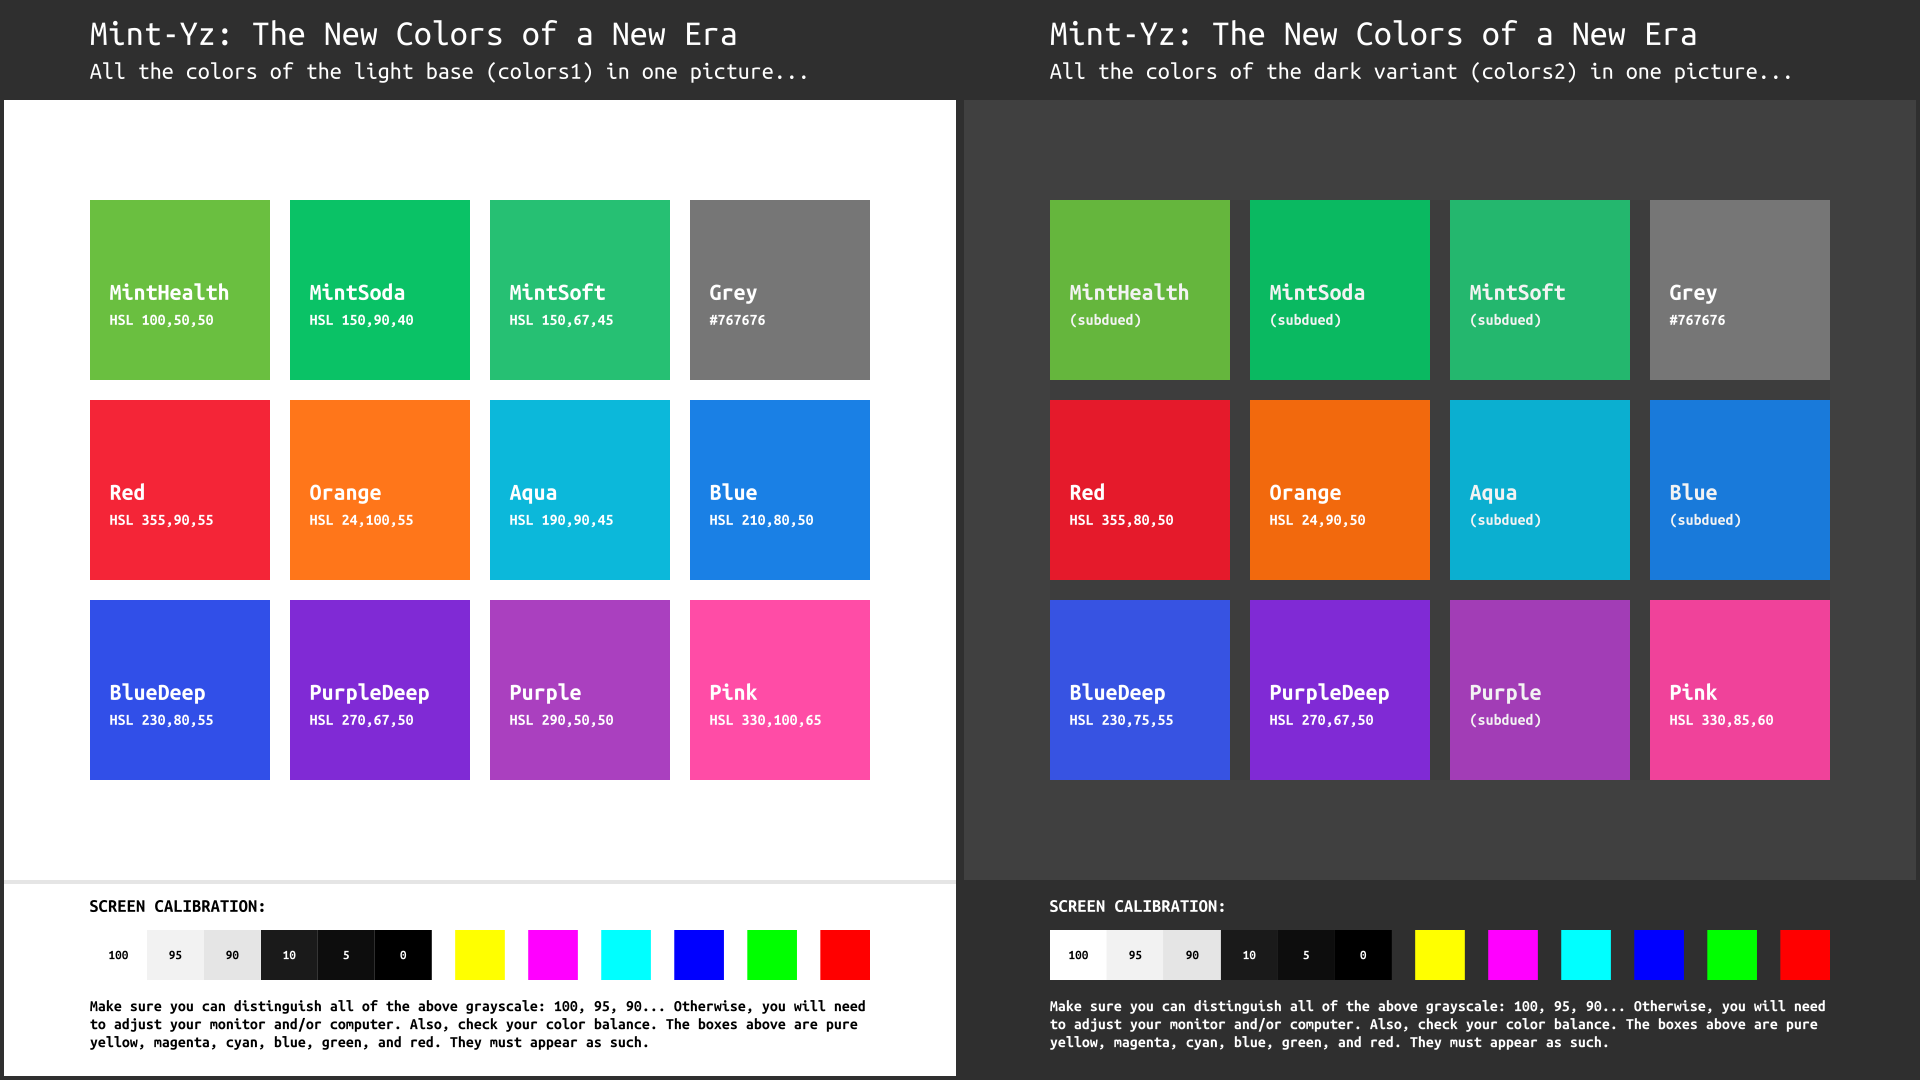
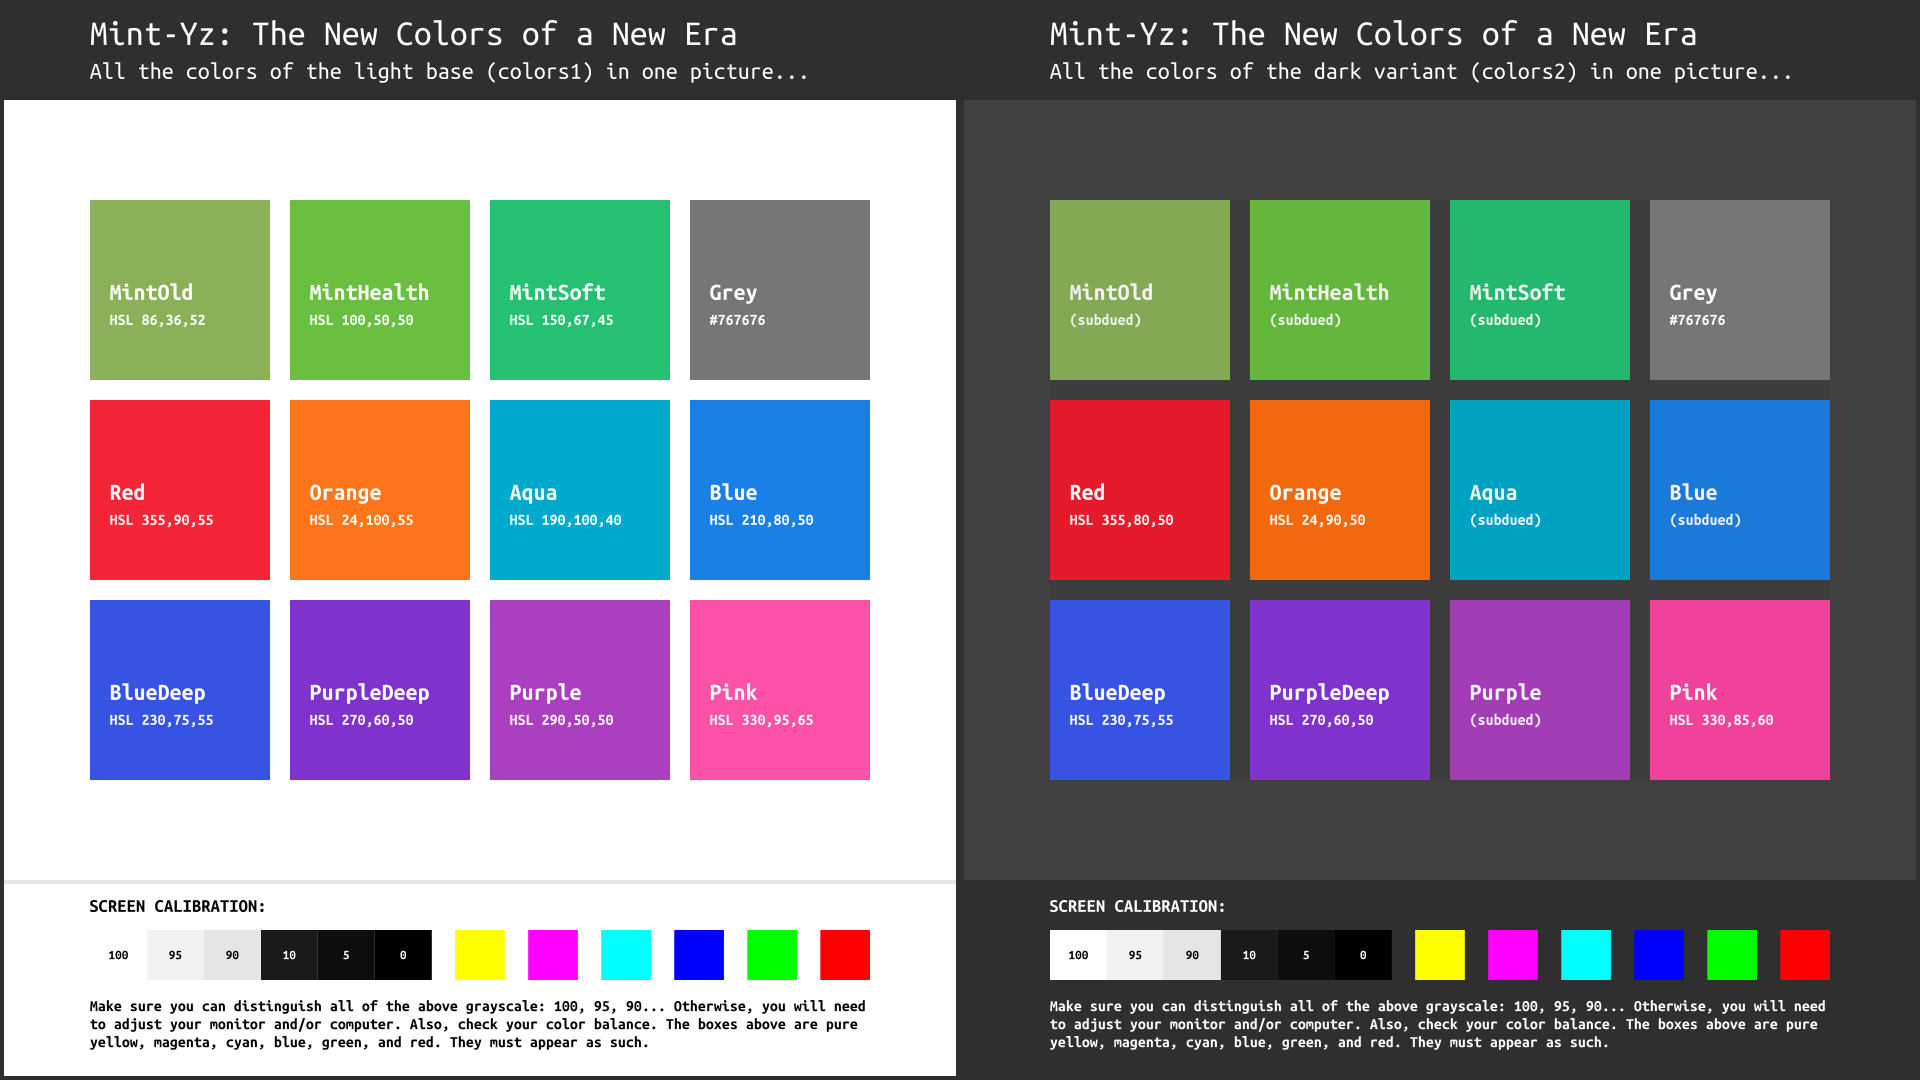
Color updates
modified:   Mint-Y-Colors/Mint-Y-Variations.png
	modified:   Mint-Y-Colors/Mint-Y-Variations.svg
	modified:   Mint-Y-Colors/messages-colors.svg
	modified:   constants.py
	modified:   src/Mint-Y/gtk-3.0/gtk-dark.css
	modified:   src/Mint-Y/gtk-3.0/gtk-darker.css
	modified:   src/Mint-Y/gtk-3.0/gtk.css
	modified:   src/Mint-Y/gtk-3.0/sass/_colors.scss

Changed region(s): [[0.5312, 0.1833, 0.75, 0.3667], [0.0312, 0.1833, 0.25, 0.3667], [0.4062, 0.6417, 0.4375, 0.6722]]

diff --git a/src/Mint-Y/gtk-3.0/gtk-dark.css b/src/Mint-Y/gtk-3.0/gtk-dark.css
@@ -2669,7 +2669,7 @@ infobar {
   infobar.error {
     background-color: #F42537; }
   infobar.question {
-    background-color: #00BBCC; }
+    background-color: #00AACC; }
 
 .primary-toolbar toolbar.selection-mode button:hover,
 .selection-mode.primary-toolbar button:hover, .primary-toolbar .selection-mode.inline-toolbar button:hover, headerbar.selection-mode button:hover, row:selected button, infobar.info button, infobar.question button, infobar.warning button, infobar.error button {

diff --git a/src/Mint-Y/gtk-3.0/gtk-darker.css b/src/Mint-Y/gtk-3.0/gtk-darker.css
@@ -2668,7 +2668,7 @@ infobar {
   infobar.error {
     background-color: #F42537; }
   infobar.question {
-    background-color: #00BBCC; }
+    background-color: #00AACC; }
 
 .primary-toolbar toolbar.selection-mode button:hover,
 .selection-mode.primary-toolbar button:hover, .primary-toolbar .selection-mode.inline-toolbar button:hover, headerbar.selection-mode button:hover, row:selected button, infobar.info button, infobar.question button, infobar.warning button, infobar.error button {

diff --git a/src/Mint-Y/gtk-3.0/gtk.css b/src/Mint-Y/gtk-3.0/gtk.css
@@ -2674,7 +2674,7 @@ infobar {
   infobar.error {
     background-color: #F42537; }
   infobar.question {
-    background-color: #00BBCC; }
+    background-color: #00AACC; }
 
 .primary-toolbar toolbar.selection-mode button:hover,
 .selection-mode.primary-toolbar button:hover, .primary-toolbar .selection-mode.inline-toolbar button:hover, headerbar.selection-mode button:hover, row:selected button, infobar.info button, infobar.question button, infobar.warning button, infobar.error button {

diff --git a/src/Mint-Y/gtk-3.0/sass/_colors.scss b/src/Mint-Y/gtk-3.0/sass/_colors.scss
@@ -25,7 +25,7 @@ $error_fg_color: white;
 $success_color: #26C073;
 $destructive_color: #F42537;
 $suggested_color: #26C073;
-$question_color: #00BBCC;
+$question_color: #00AACC;
 //___
 $drop_target_color: #FF761A;
 

diff --git a/constants.py b/constants.py
@@ -18,15 +18,15 @@ y_hex_colors2 = {}
 y_hex_colors3 = {}
 y_hex_colors4 = {}
 
+y_hex_colors1["MintOld"] = "#8BB158"
+y_hex_colors2["MintOld"] = "#84A954"
+y_hex_colors3["MintOld"] = "#A2C179"
+y_hex_colors4["MintOld"] = "#627C3E"
+
 y_hex_colors1["MintHealth"] = "#6ABF40"
 y_hex_colors2["MintHealth"] = "#65B63D"
 y_hex_colors3["MintHealth"] = "#88CC66"
 y_hex_colors4["MintHealth"] = "#4A862D"
-
-y_hex_colors1["MintSoda"] = "#0AC266"
-y_hex_colors2["MintSoda"] = "#0AB961"
-y_hex_colors3["MintSoda"] = "#3BCE85"
-y_hex_colors4["MintSoda"] = "#078848"
 
 y_hex_colors1["MintSoft"] = "#26C073"
 y_hex_colors2["MintSoft"] = "#24B76E"
@@ -48,33 +48,33 @@ y_hex_colors2["Orange"] = "#F2690D"
 y_hex_colors3["Orange"] = "#FF9148"
 y_hex_colors4["Orange"] = "#B35312"
 
-y_hex_colors1["Aqua"] = "#0CB8DA"
-y_hex_colors2["Aqua"] = "#0BAFD0"
-y_hex_colors3["Aqua"] = "#3DC6E1"
-y_hex_colors4["Aqua"] = "#088199"
+y_hex_colors1["Aqua"] = "#00AACC"
+y_hex_colors2["Aqua"] = "#00A2C2"
+y_hex_colors3["Aqua"] = "#33BBD6"
+y_hex_colors4["Aqua"] = "#00778F"
 
 y_hex_colors1["Blue"] = "#1A80E5"
 y_hex_colors2["Blue"] = "#197ADA"
 y_hex_colors3["Blue"] = "#4899EA"
 y_hex_colors4["Blue"] = "#125AA1"
 
-y_hex_colors1["BlueDeep"] = "#314FE8"
+y_hex_colors1["BlueDeep"] = "#3753E2"
 y_hex_colors2["BlueDeep"] = "#3753E2"
-y_hex_colors3["BlueDeep"] = "#5A72ED"
-y_hex_colors4["BlueDeep"] = "#2237A3"
+y_hex_colors3["BlueDeep"] = "#5F75E8"
+y_hex_colors4["BlueDeep"] = "#273A9F"
 
-y_hex_colors1["PurpleDeep"] = "#802AD5"
-y_hex_colors2["PurpleDeep"] = "#802AD5"
-y_hex_colors3["PurpleDeep"] = "#9955DD"
-y_hex_colors4["PurpleDeep"] = "#5A1D96"
+y_hex_colors1["PurpleDeep"] = "#8033CC"
+y_hex_colors2["PurpleDeep"] = "#8033CC"
+y_hex_colors3["PurpleDeep"] = "#995CD6"
+y_hex_colors4["PurpleDeep"] = "#5A248F"
 
 y_hex_colors1["Purple"] = "#AA40BF"
 y_hex_colors2["Purple"] = "#A23DB6"
 y_hex_colors3["Purple"] = "#BB66CC"
 y_hex_colors4["Purple"] = "#772D86"
 
-y_hex_colors1["Pink"] = "#FF4CA6"
+y_hex_colors1["Pink"] = "#FB51A6"
 y_hex_colors2["Pink"] = "#F0429A"
-y_hex_colors3["Pink"] = "#FF70B8"
-y_hex_colors4["Pink"] = "#B33575"
+y_hex_colors3["Pink"] = "#FC74B8"
+y_hex_colors4["Pink"] = "#B03975"
 
